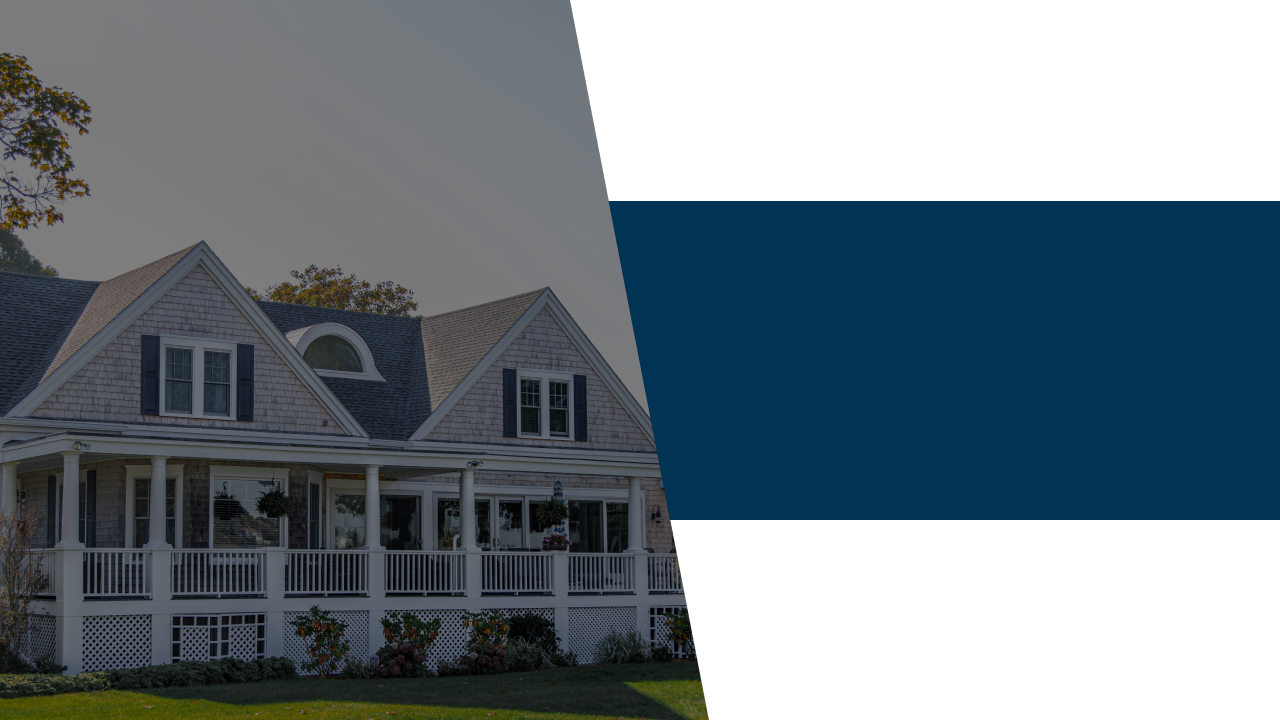
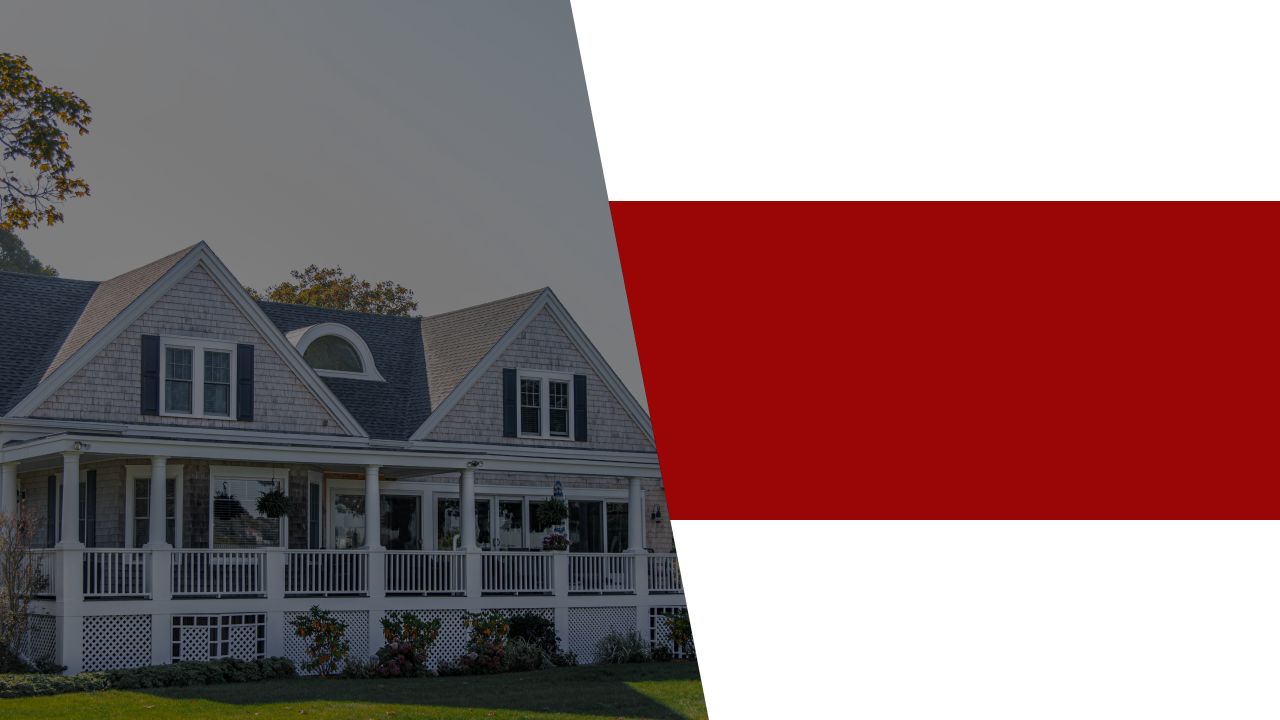
about page and card animatoins

Changed region(s): [[0.4688, 0.275, 1.0, 0.7333]]

diff --git a/frontend/src/components/Navbar.jsx b/frontend/src/components/Navbar.jsx
@@ -1,16 +1,16 @@
 import React, { useState } from 'react'
 import styled from 'styled-components/macro'
-import LogoImg from '../assets/logo1.png'
+import LogoWhite from '../assets/logo1.png'
+import LogoRed from '../assets/logo4.png'
 import { Link } from 'react-scroll'
 import { motion } from 'framer-motion'
 
 const Container = styled.div`
     width: 100%;
-    /* background-color: ${props => props.bgColor ? "var(--red)" : "rbga(0, 0, 0, 0)"}; */
-    background-color: ${props => props.bgColor ? "var(--blue)" : "rbga(0, 0, 0, 0)"};
+    background-color: ${props => props.color === 1 ? "#fff" : "rbga(0, 0, 0, 0)"};
     position: fixed;
     z-index: 10;
-    /* box-shadow: 0rem 0.6rem 0.8rem #888888; */
+    box-shadow: ${props => props.color === 1 ? "0rem 0.2rem 0.8rem #565656" : "none"};
 `
 
 const Wrapper = styled(motion.div)`
@@ -42,23 +42,18 @@ const NavLinks = styled(motion.div)`
     gap: 10rem;
 `
 
-const NavItems = styled(motion.div)`
+const NavItems = styled(motion.div)``
 
-`
-
-const LinkContainer = styled(motion.div)`
-
-`
+const LinkContainer = styled(motion.div)``
 
 const NavLink = styled(Link)`
     cursor: pointer;
-    color: #fff;
+    color: ${props => props.color === 1 ? "#000" : "#fff"};
     font-size: 1.8rem;
 
     &.active {
-        color: #fff;
-        border-bottom: 0.2rem solid #fff;
-        font-weight: bold;
+        color: var(--red);
+        font-weight: 900;
         padding-bottom: 0.5rem;
     }
 `
@@ -68,12 +63,12 @@ const RightNav = styled.div`
 `
 
 const Navbar = () => {
-    const [bgColor, setBgColor] = useState(false)
+    const [color, setColor] = useState(0)
 
-    const changeBgColor = () => {
-        window.scrollY >= 100 ? setBgColor(true) : setBgColor(false)
+    const changecolor = () => {
+        window.scrollY >= 100 ? setColor(1) : setColor(0)
     }
-    window.addEventListener('scroll', changeBgColor)
+    window.addEventListener('scroll', changecolor)
 
     // VARIANTS
     const NavVariant = {
@@ -121,17 +116,15 @@ const Navbar = () => {
 
     const HoverVariants = {
         hover: {
-            scale: 1.1,
+            scale: 1.2,
             transition: {
-                duration: 0.8,
-                repeat: Infinity,
-                repeatType: 'mirror',
+                duration: 0.5,
             }
         }
     }
 
     return (
-        <Container bgColor={bgColor}>
+        <Container color={color}>
             <Wrapper
                 variants= { NavVariant }
                 initial= 'hidden'
@@ -139,7 +132,7 @@ const Navbar = () => {
             >
                 <LeftNav variants= { NavVariant }>
                     <LogoLink to="hero" spy={true} smooth={true} offset={0} duration={500}>
-                        <img src={LogoImg} alt='logo' style={{width: '23%'}} />
+                        <img src={color ? LogoRed : LogoWhite} alt='logo' style={{width: '23%'}} />
                     </LogoLink>
                 </LeftNav>
 
@@ -151,7 +144,7 @@ const Navbar = () => {
                     >
                         <NavItems variants= { LinkVariants }>
                             <LinkContainer variants= { HoverVariants } whileHover="hover">
-                                <NavLink activeClass='active' to="about" spy={true} smooth={true} offset={-110} duration={500}>
+                                <NavLink activeClass='active' to="about" spy={true} smooth={true} offset={-110} duration={500} color={color}>
                                     About
                                 </NavLink>
                             </LinkContainer>
@@ -159,7 +152,7 @@ const Navbar = () => {
 
                         <NavItems variants= { LinkVariants }>
                             <LinkContainer variants= { HoverVariants } whileHover="hover">
-                                <NavLink activeClass="active" to="roofing" spy={true} smooth={true} offset={-110} duration={500}>
+                                <NavLink activeClass="active" to="roofing" spy={true} smooth={true} offset={-110} duration={500} color={color}>
                                     Roofing
                                 </NavLink>
                             </LinkContainer>
@@ -167,7 +160,7 @@ const Navbar = () => {
 
                         <NavItems variants= { LinkVariants }>
                             <LinkContainer variants= { HoverVariants } whileHover="hover">
-                                <NavLink activeClass="active" to="siding" spy={true} smooth={true} offset={-109} duration={500}>
+                                <NavLink activeClass="active" to="siding" spy={true} smooth={true} offset={-109} duration={500} color={color}>
                                     Siding
                                 </NavLink>
                             </LinkContainer>
@@ -175,7 +168,7 @@ const Navbar = () => {
 
                         <NavItems variants= { LinkVariants }>
                             <LinkContainer variants= { HoverVariants } whileHover="hover">
-                                <NavLink activeClass="active" to="contact" spy={true} smooth={true} offset={-109} duration={500}>
+                                <NavLink activeClass="active" to="contact" spy={true} smooth={true} offset={-109} duration={500} color={color}>
                                     Contact
                                 </NavLink>
                             </LinkContainer>

diff --git a/frontend/src/components/AboutCard.jsx b/frontend/src/components/AboutCard.jsx
@@ -1,38 +1,73 @@
 import React from 'react'
 import styled from 'styled-components/macro'
+import { Link } from 'react-scroll'
+import { motion } from 'framer-motion'
 
-const Container = styled.div`
+
+const Container = styled(motion.div)`
     width: 100%;
 `
 
-const CardContainer = styled.div`
+const CardContainer = styled(Link) `
     width: 100%;
-    display: flex;
-    flex-direction: column;
-    align-items: center;
+    position: relative;
+
+    &:hover{
+        cursor: pointer;
+    }
 `
 
 const CardImg = styled.img`
     width: 100%;
 `
 
-const CardText = styled.span`
+const TextContainer = styled(motion.div)`
     width: 100%;
-    /* background-color: var(--red); */
-    background-color: var(--blue);
-    padding: 2rem 0rem;
-    text-align: center;
+    height: 20%;
+    display: flex;
+    align-items: center;
+    justify-content: center;
+    background-color: var(--overlay-red);
+    position: absolute;
+    bottom: 0;
+`
+
+const CardText = styled.span`
     color: #fff;
     font-size: 2rem;
     font-weight: 600;
 `
 
-const AboutCard = ({image, text}) => {
+const AboutCard = ({image, text, path}) => {
+
+    // VARIANTS
+    const BGVariant = {
+        rest: {
+            height: 75,
+        },
+
+        hover: {
+            height: 450,
+            transition: { 
+                duration: 0.5,
+            }
+        }
+    }
+
     return (
-        <Container>
-            <CardContainer>
+        <Container 
+            initial= 'rest'
+            animate= 'rest'
+            whileHover= 'hover'
+        >
+            <CardContainer to={path} spy={true} smooth={true} offset={0} duration={500}>
+                <TextContainer
+                    variants= { BGVariant }
+                >
+                    <CardText > {text} </CardText>
+                </TextContainer>
+
                 <CardImg src={image} />
-                <CardText> {text} </CardText>
             </CardContainer>
         </Container>
     )

diff --git a/frontend/src/pages/ContactSection.jsx b/frontend/src/pages/ContactSection.jsx
@@ -35,7 +35,7 @@ const SectionItem = styled.div`
 `
 
 const ContactTitle = styled.span`
-    color: var(--blue);
+    color: var(--red);
     font-size: 3.5rem;
     font-weight: bold;
 `
@@ -46,7 +46,7 @@ const TextContainer = styled.div`
 `
 
 const Title = styled.span`
-    color: var(--blue);
+    color: var(--red);
     font-size: 2rem;
     font-weight: bold;
 `
@@ -68,7 +68,7 @@ const FormContainer = styled.div`
 
 const FormTitle = styled.span`
     font-size: 3.5rem;
-    color: var(--blue);
+    color: var(--red);
     font-weight: bold;
 `
 
@@ -80,7 +80,7 @@ const Form = styled.form`
     width: 65%;
     -webkit-box-shadow: 0px 0px 15px 3px #959595; 
     box-shadow: 0px 0px 15px 3px #959595;
-    background-color: var(--blue);
+    background-color: var(--red);
     padding: 5rem 0rem;
 `
 
@@ -104,7 +104,7 @@ const TextBox = styled.textarea`
 const Btn = styled.button`
     padding: 1.5rem 5rem;
     font-size: 1.6rem;
-    background-color: var(--blue);
+    background-color: var(--red);
     border: 0.2rem solid #fff;
     color: #fff;
     font-weight: 600;
@@ -113,7 +113,7 @@ const Btn = styled.button`
     &:hover{
         cursor: pointer;
         background-color: #fff;
-        color: var(--blue);
+        color: var(--red);
     }
 `
 

diff --git a/frontend/src/pages/AboutSection.jsx b/frontend/src/pages/AboutSection.jsx
@@ -31,8 +31,7 @@ const TitleContainer = styled(motion.div)`
 const AboutTitle = styled.h1`
     text-align: center;
     font-size: 4rem;
-    color: var(--blue);
-    /* color: var(--red); */
+    color: var(--red);
 `
 
 const AboutText = styled(motion.p)`
@@ -56,9 +55,9 @@ const CardItem = styled(motion.div)`
 
 const AboutSection = () => {
     let cardData = [
-        {'image': Img1, 'text': 'Residential Roofing'},
-        {'image': Img2, 'text': 'Commercial Roofing'},
-        {'image': Img3, 'text': 'Siding Services'},
+        {'image': Img1, 'text': 'Residential Roofing', path: 'roofing'},
+        {'image': Img2, 'text': 'Commercial Roofing',  path: 'roofing'},
+        {'image': Img3, 'text': 'Siding Services',  path: 'siding'},
     ]
 
     // VARIANTS
@@ -154,7 +153,7 @@ const AboutSection = () => {
                 >
                     { cardData.map((data) => (
                         <CardItem key={data.image} variants={ CardsVariants }>
-                            <AboutCard image= {data.image} text={data.text} />
+                            <AboutCard image= {data.image} text={data.text} path={data.path} />
                         </CardItem>
                     ))}
                 </CardsContainer>

diff --git a/frontend/src/components/Footer.jsx b/frontend/src/components/Footer.jsx
@@ -6,7 +6,7 @@ import { HiOutlineLocationMarker, HiOutlinePhone, HiOutlineMail } from 'react-ic
 
 const Container = styled.div`
     width: 100%;
-    background-color: var(--blue);
+    background-color: var(--red);
 `
 
 const Wrapper = styled.div`

diff --git a/frontend/src/pages/HeroSection.jsx b/frontend/src/pages/HeroSection.jsx
@@ -49,8 +49,7 @@ const HeroBtn = styled(Link)`
 
     &:hover{
         cursor: pointer;
-        /* background-color: var(--red); */
-        background-color: var(--blue);
+        background-color: var(--red);
     }
 `
 

diff --git a/frontend/src/index.css b/frontend/src/index.css
@@ -15,6 +15,7 @@ code {
 :root{
   /* --red: #9A0506; */
   --red: #c10202;
+  --overlay-red: rgba(193, 2, 2, 0.7);
   --blue: #003354;
   /* --blue: #1C1F33; */
 }
